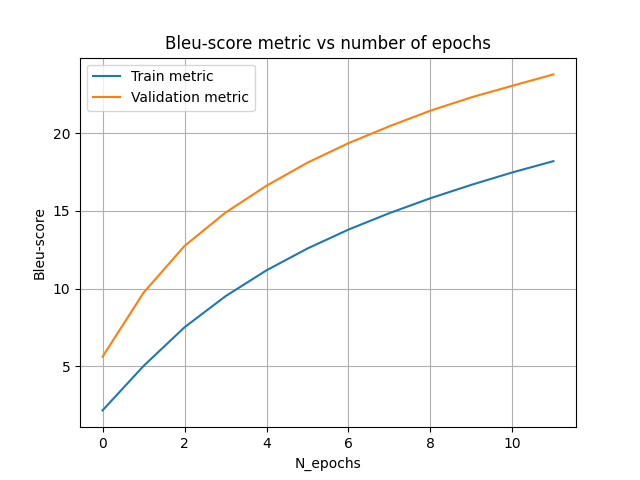
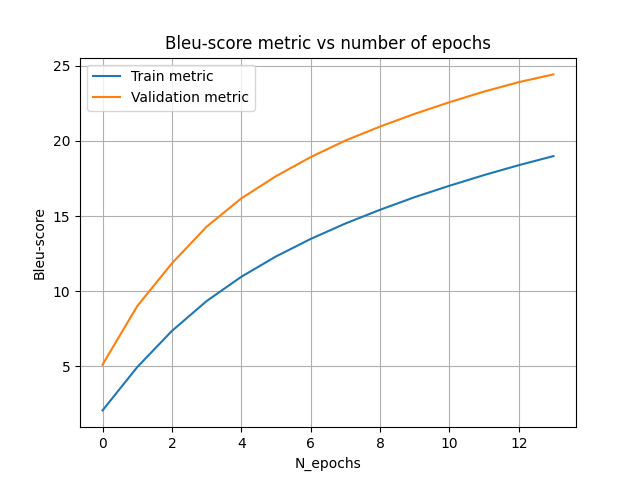
updated plots

diff --git a/transformer/tools/train.py b/transformer/tools/train.py
@@ -66,7 +66,7 @@ class Train(BaseModel):
                 #Metric 
                 #CREATE GENERATE FUNC
                 with torch.no_grad():
-                    generated_predictions = model.generate(encoder_input, encoder_mask, max_tokens=32, device=device)
+                    generated_predictions = model.generate(encoder_input, encoder_mask, max_tokens=58, device=device)
                     decoder_predictions = tokenizer.batch_decode(generated_predictions, skip_special_tokens=True)
                     labels = targets.clone()
                     labels[labels == -100] = tokenizer.pad_token_id
@@ -107,7 +107,7 @@ class Train(BaseModel):
                 #Metric 
                 #CREATE GENERATE FUNC
                 with torch.no_grad():
-                    generated_predictions = model.generate(encoder_input, encoder_mask, max_tokens=32, device=device)
+                    generated_predictions = model.generate(encoder_input, encoder_mask, max_tokens=58, device=device)
                     decoder_predictions = tokenizer.batch_decode(generated_predictions, skip_special_tokens=True)
                     labels = targets.clone()
                     labels[labels == -100] = tokenizer.pad_token_id

diff --git a/51_transformers_train.py b/51_transformers_train.py
@@ -2,7 +2,7 @@ from transformer.seq2seq_service import Seq2SeqService
 
 def main():
     
-    n_epochs=12
+    n_epochs=14
     seed = 98
     service = Seq2SeqService()
     service.handle_seq2seq(n_epochs, seed)
